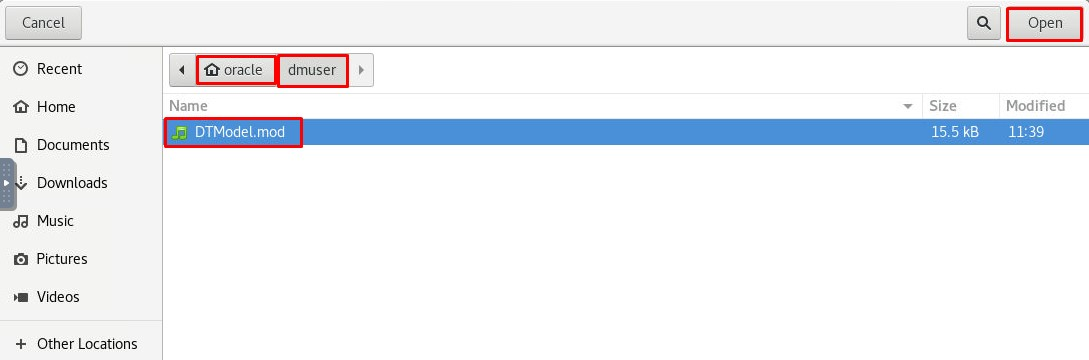
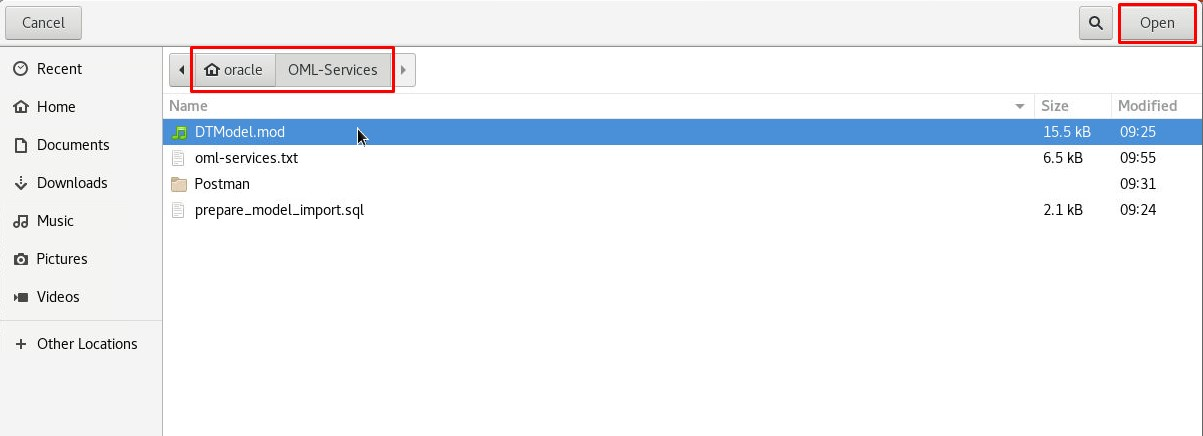
Updated pictures and tasks

diff --git a/oml-services/oml-services/oml-services.md b/oml-services/oml-services/oml-services.md
@@ -256,9 +256,11 @@ We can now use REST APIs to query the model, model scoring and scoring for speci
 <copy>./OML-Services/Postman/Postman</copy>
 ````
 
+![Launch Postman](images/automl-screenshot-20.jpg)
+
 Postman registration is not necessary for this workshop therefore you can choose Skip on the login page.
 
-![Launch Postman](images/automl-screenshot-20.jpg)
+![Launch Postman](images/automl-screenshot-201.jpg)
 
 You can close the scratchpad banner and hide the sidebar for a cleaner view.
 
@@ -785,28 +787,15 @@ We are going to run the next steps:
  3. Deploy the model;
  4. Score a customer using the Decision Tree model;
 
-### Task Prerequisites
 
-* Run the OML4PY workshop.
-* Run the OML-Services Workshop.
+## Task 6.1: Extract the saved model to a file (Optional)
 
-## Task 6.1: Extract the saved model to a file
+When running OML-Services standalone you can skip this step and got to Task 6.2. (You can run this task only if you went through the OML4Py workshop and run OML-Services workshop as an added step. )
 
 * Connect to the VM and open a Terminal window.
 
   ![VM-Terminal](images/model-import-01.jpg)
 
-* Run these commands one by one:
-
-````
-. setEnv
-
-. oraenv
-
-ORACLE_SID = [mlcdb] ? - Hit Enter
-````
-
-  ![VM-Terminal](images/model-import-02.jpg)
 
 * Go to the OML_Services folder.
 
@@ -818,9 +807,11 @@ $<copy> cd ~/OML-Services</copy>
 
 
 * Run the `prepare_model_import.sql` script to write the exported DT_MODEL to a file on the operating system.
+Please replace the **`<ServiceName>`** tag with the actual service name of the database instance. For example **`mlpdb1.sub09301404280.omlvcn.oraclevcn.com`**.
+
 
 ````
-$ <copy> sqlplus sys/MLlearnPTS#21_@localhost:1521/mlpdb1.sub07141037280.rehevcn.oraclevcn.com as sysdba @prepare_model_import.sql</copy>
+$ <copy> sqlplus sys/MLlearnPTS#21_@localhost:1521/<ServiceName> as sysdba @prepare_model_import.sql</copy>
 ````
 
 The script runs the following steps.
@@ -837,7 +828,7 @@ The script runs the following steps.
 To check the exported file run the command:
 
 ````
-$<copy>ls ~/dmuser</copy>
+$<copy>ls -alt </copy>
 ````
 
   ![VM-Terminal](images/model-import-05.jpg)
@@ -885,7 +876,7 @@ URI endpoint:
 In the Headers tab enter the following:
 
 ````
-Content-Type: application/json
+Content-Type: multipart/form-data
 boundary: Boundary
 ````
 
@@ -896,7 +887,7 @@ In the Body tab pick form-data and enter `modelData` in the key field, hover ove
 
   ![Model Import](images/model-import-10.jpg)
 
-Click Select File; go to `/home/oracle/dmuser/` folder and select the **`DTModel.mod`** file created earlier.
+Click Select File; go to `/home/oracle/OML-Services/` folder and select the **`DTModel.mod`** file created earlier.
 
   ![Model Import](images/model-import-11.jpg)
 
@@ -1054,7 +1045,7 @@ In this exercise we managed took a model exported in the Python workshop and imp
 ## Acknowledgements
 * **Authors** -  Andrei Manoliu, Milton Wan
 * **Contiributors** - Rajeev Rumale
-* **Last Updated By/Date** -  Andrei Manoliu, October 2021
+* **Last Updated By/Date** -  Andrei Manoliu, November 2021
 
 ## Need Help?
 Please submit feedback or ask for help using our [LiveLabs Support Forum](https://community.oracle.com/tech/developers/categories/livelabsdiscussions). Please click the **Log In** button and login using your Oracle Account. Click the **Ask A Question** button to the left to start a *New Discussion* or *Ask a Question*.  Please include your workshop name and lab name.  You can also include screenshots and attach files.  Engage directly with the author of the workshop.

diff --git a/oml-services/preparation/preparation.md b/oml-services/preparation/preparation.md
@@ -13,13 +13,12 @@ Estimated Lab Time: 10 minutes
 *	Obtain information from OCI to connect i.e., Get Tenancy ID,
 * Load data into ADW
 *	Create user account for ML services
-*	Acces VM instance Use Postman to score the machine learning model using REST APIs  
-*	Use Curl to score the machine-learning model using REST APIs in command line.
+*
 
 ### Prerequisites
 * Oracle Cloud Infrastructure (OCI) account
 * Autonomous Database deployed in Oracle Cloud
-* Postman or Curl available on your working station
+
 
 ### Lab Preparation:
 
